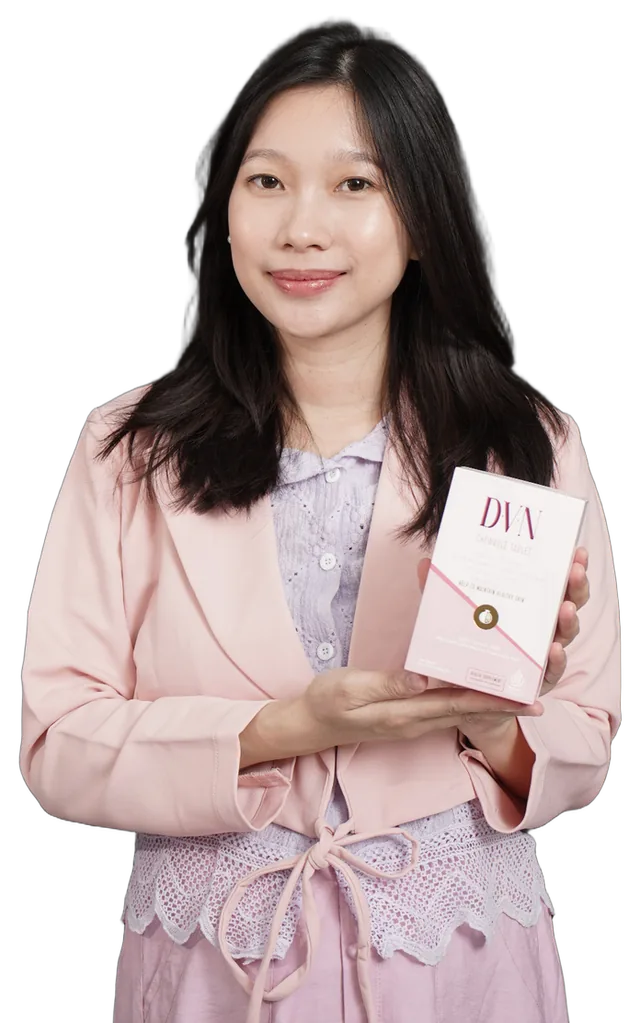
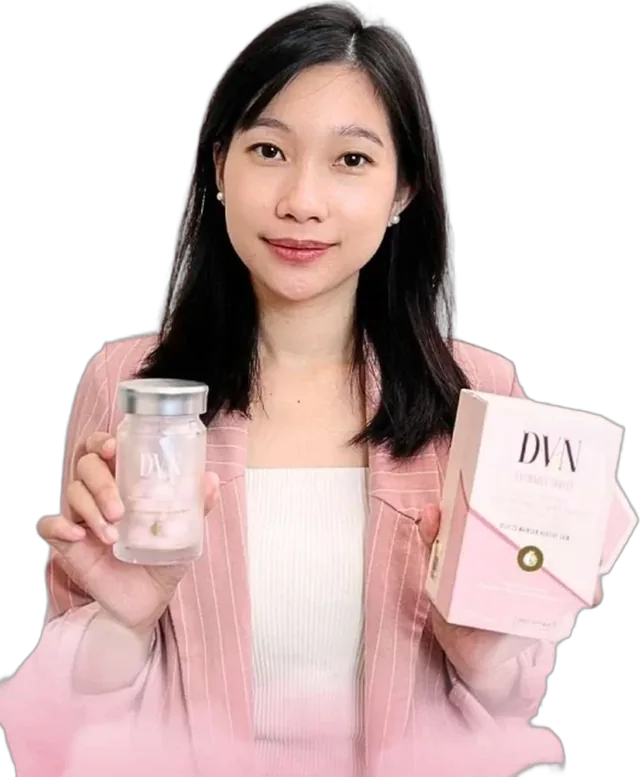
Add files via upload

diff --git a/index.html b/index.html
@@ -14,7 +14,7 @@
   <link rel="preload" as="image" href="assets/hero-silvi.webp" fetchpriority="high">
   <link rel="preconnect" href="https://fonts.googleapis.com">
   <link rel="preconnect" href="https://fonts.gstatic.com" crossorigin>
-  <link href="https://fonts.googleapis.com/css2?family=Bodoni+Moda:ital,opsz,wght@0,6..96,500;1,6..96,500&family=Plus+Jakarta+Sans:wght@400;500;600;700;800&display=swap" rel="stylesheet">
+  <link href="https://fonts.googleapis.com/css2?family=Fraunces:ital,opsz,wght@0,9..144,600;0,9..144,700;1,9..144,600&family=Plus+Jakarta+Sans:wght@400;500;600;700;800&display=swap" rel="stylesheet">
 
   <!-- TODO: Meta Pixel. Ganti PIXEL_ID lalu hapus tanda komentar.
   <script>
@@ -46,7 +46,7 @@
       --dark: #1F1F1F;
       --wa: #15784A;
       --wa-d: #0F6038;
-      --serif: "Bodoni Moda", Georgia, "Times New Roman", serif;
+      --serif: "Fraunces", Georgia, "Times New Roman", serif;
       --sans: "Plus Jakarta Sans", system-ui, -apple-system, "Segoe UI", sans-serif;
     }
 
@@ -54,7 +54,7 @@
     html { scroll-behavior: smooth; -webkit-text-size-adjust: 100%; }
     body { margin: 0; background: var(--ground); color: var(--ink); font-family: var(--sans); font-size: 16px; line-height: 1.55; -webkit-font-smoothing: antialiased; }
     img { max-width: 100%; display: block; }
-    h1, h2, h3 { font-family: var(--serif); font-weight: 500; letter-spacing: -.01em; margin: 0; }
+    h1, h2, h3 { font-family: var(--serif); font-weight: 600; letter-spacing: -.015em; margin: 0; font-optical-sizing: auto; }
     p { margin: 0; }
     em { font-style: italic; }
     a { color: var(--rose); }
@@ -99,17 +99,17 @@
     .spark.r { color: var(--rose); }
     .hero-grid { position: relative; z-index: 2; display: grid; }
     .hero-copy { padding-top: 24px; }
-    .hero h1 { font-family: var(--sans); font-weight: 800; font-size: clamp(31px, 8.4vw, 46px); line-height: 1.12; letter-spacing: -.025em; margin: 14px 0 12px; }
-    .hero h1 em { font-style: normal; color: var(--rose); background: linear-gradient(transparent 62%, rgba(255,255,255,.75) 62%, rgba(255,255,255,.75) 92%, transparent 92%); -webkit-box-decoration-break: clone; box-decoration-break: clone; padding: 0 2px; }
+    .hero h1 { font-weight: 700; font-size: clamp(32px, 8.6vw, 48px); line-height: 1.1; letter-spacing: -.02em; margin: 14px 0 12px; }
+    .hero h1 em { font-style: italic; font-weight: 600; color: var(--rose); background: linear-gradient(transparent 62%, rgba(255,255,255,.75) 62%, rgba(255,255,255,.75) 92%, transparent 92%); -webkit-box-decoration-break: clone; box-decoration-break: clone; padding: 0 2px; }
     .perks { display: flex; flex-wrap: wrap; gap: 8px; }
     .perk { display: inline-flex; align-items: center; gap: 8px; padding: 6px 12px 6px 6px; border-radius: 999px; background: #fff; color: var(--rose-d); font-size: 13px; font-weight: 700; box-shadow: 0 6px 16px -12px rgba(126,22,54,.7); }
     .perk i { width: 26px; height: 26px; border-radius: 50%; display: grid; place-items: center; background: var(--rose); color: #fff; }
     .perk svg { width: 15px; height: 15px; }
     .lead { font-size: 16px; color: #5A2638; }
     .lead strong { color: var(--ink); }
-    .photo { position: relative; width: min(342px, 100%); height: 480px; margin: 18px auto 0; display: flex; justify-content: center; align-items: flex-end; }
+    .photo { position: relative; width: min(350px, 100%); margin: 18px auto 0; display: flex; justify-content: center; align-items: flex-end; }
     .photo::before { content: ""; position: absolute; left: 50%; top: 36px; width: 300px; height: 300px; margin-left: -150px; border-radius: 50%; background: rgba(255,255,255,.5); border: 1.5px solid #fff; }
-    .photo img { position: relative; height: 480px; width: auto; max-width: none; -webkit-mask-image: linear-gradient(180deg, #000 80%, transparent); mask-image: linear-gradient(180deg, #000 80%, transparent); filter: drop-shadow(0 18px 24px rgba(126,22,54,.25)); }
+    .photo img { position: relative; width: 100%; height: auto; -webkit-mask-image: linear-gradient(180deg, #000 80%, transparent); mask-image: linear-gradient(180deg, #000 80%, transparent); filter: drop-shadow(0 18px 24px rgba(126,22,54,.25)); }
     .tag { position: absolute; left: 50%; bottom: 16px; transform: translateX(-50%); z-index: 3; display: flex; flex-direction: column; align-items: center; padding: 8px 18px; border-radius: 16px; background: rgba(255,255,255,.94); box-shadow: 0 12px 28px -14px rgba(0,0,0,.6); white-space: nowrap; }
     .tag b { display: inline-flex; align-items: center; gap: 6px; font-size: 15px; }
     .tag b svg { width: 16px; height: 16px; color: #fff; background: #2F80ED; border-radius: 50%; padding: 2px; }
@@ -284,8 +284,7 @@
       .wrap { padding: 0 40px; }
       .track { margin: 24px -40px 0; padding: 4px 40px 12px; }
       .h2 { max-width: 640px; }
-      .photo { width: 400px; height: 520px; }
-      .photo img { height: 520px; }
+      .photo { width: 420px; }
       .photo::before { width: 340px; height: 340px; margin-left: -170px; }
       .docs { max-width: 340px; }
       .sec .btn-wa { max-width: 420px; }
@@ -321,8 +320,7 @@
       .hero-cta .trust { justify-content: flex-start; }
       .hero-cta .btn-wa { align-self: flex-start; padding: 0 32px; }
       .hero-cta .note { text-align: left; }
-      .photo { grid-column: 2; grid-row: 1 / span 2; width: 460px; height: 600px; margin: 40px auto 0; }
-      .photo img { height: 600px; }
+      .photo { grid-column: 2; grid-row: 1 / span 2; width: 480px; margin: 40px auto 0; }
       .photo::before { width: 420px; height: 420px; margin-left: -210px; top: 40px; }
       .deco.c3 { top: 520px; }
 
@@ -409,11 +407,11 @@
         <li class="perk"><i><svg viewBox="0 0 24 24" fill="none" stroke="currentColor" stroke-width="2" stroke-linecap="round" stroke-linejoin="round" aria-hidden="true"><rect x="3" y="6" width="18" height="12" rx="2"/><circle cx="12" cy="12" r="2.5"/><path d="M6.5 9.5v.01M17.5 14.5v.01"/></svg></i>Bisa COD</li>
       </ul>
       <h1>Skincare sudah rutin, tapi kulit masih terasa <em>kering &amp; kurang kenyal?</em></h1>
-      <p class="lead">Bisa jadi kulitmu juga butuh dukungan <strong>dari dalam</strong> supaya tetap sehat, lembap &amp; kenyal.</p>
+      <p class="lead">Kulitmu juga butuh nutrisi <strong>dari dalam</strong> supaya tetap sehat, lembap &amp; kenyal.</p>
     </div>
 
     <div class="photo">
-      <img src="assets/hero-silvi.webp" alt="Memegang kemasan DVN Chewable Tablet" width="640" height="1023" fetchpriority="high" decoding="async">
+      <img src="assets/hero-silvi.webp" alt="Silvia memegang botol dan kemasan DVN Chewable Tablet" width="640" height="777" fetchpriority="high" decoding="async">
       <p class="tag"><b>Silvia · I1607 <svg viewBox="0 0 24 24" fill="none" stroke="currentColor" stroke-width="3.5" stroke-linecap="round" stroke-linejoin="round" role="img" aria-label="Terverifikasi"><path d="M6 12.5l4 4L18 8"/></svg></b><i>Bachelor of Science &amp; beauty enthusiast</i></p>
     </div>
 
@@ -470,8 +468,8 @@
         <p id="p-msg" style="font-size: 15px; font-weight: 600">Wajar dialami, apalagi dengan aktivitas padat.</p>
       </div>
       <div class="rv">
-        <p class="insight">“Ternyata, merawat dari luar saja belum cukup.”</p>
-        <p class="sub" style="margin-top: 10px">Skincare bekerja di permukaan. Padahal kondisi kulit juga dipengaruhi apa yang terjadi di dalam tubuh: nutrisi, istirahat, stres, dan paparan sinar matahari.</p>
+        <p class="insight">Skincare bekerja di permukaan kulit.</p>
+        <p class="sub" style="margin-top: 10px">Nutrisi, jam tidur, stres, dan sinar matahari juga memengaruhi kondisi kulitmu dari dalam.</p>
         <a class="link-down" href="#solusi">Lihat solusinya<svg viewBox="0 0 24 24" fill="none" stroke="currentColor" stroke-width="2" stroke-linecap="round" stroke-linejoin="round" aria-hidden="true"><path d="M12 5v14M6 13l6 6 6-6"/></svg></a>
       </div>
     </div>
@@ -485,7 +483,7 @@
       <div class="rv">
         <p class="kicker"><span>02</span>Solusi</p>
         <h2 class="h2">Rawat dari luar, <em>lengkapi dari dalam</em></h2>
-        <p class="sub" style="color: var(--muted-2)">DVN Chewable Tablet adalah suplemen kunyah yang dirancang untuk membantu menjaga kesehatan kulit dari dalam. Skincare tetap jalan, kulit juga dapat dukungan nutrisi.</p>
+        <p class="sub" style="color: var(--muted-2)">DVN Chewable Tablet adalah suplemen kunyah untuk membantu memelihara kesehatan kulit dari dalam. Kamu tetap pakai skincare, kulitmu dapat tambahan nutrisi.</p>
       </div>
       <div class="eq rv">
         <div class="eqc">
@@ -500,7 +498,7 @@
         <span class="eqop" aria-hidden="true">=</span>
         <div class="eqc hl">
           <span class="eqi"><svg viewBox="0 0 24 24" fill="none" stroke="currentColor" stroke-width="1.8" stroke-linecap="round" stroke-linejoin="round" aria-hidden="true"><path d="M12 3l1.9 4.6L18.5 9l-4.6 1.9L12 15.5l-1.9-4.6L5.5 9l4.6-1.4z"/><path d="M18 15l.8 2.2L21 18l-2.2.8L18 21l-.8-2.2L15 18l2.2-.8z"/></svg></span>
-          <span><strong>Rutinitas yang lebih lengkap</strong><small>Bantu jaga kulit tetap sehat, lembap &amp; kenyal</small></span>
+          <span><strong>Kamu merawat kulit dari dua sisi</strong><small>Bantu jaga kulit tetap sehat, lembap &amp; kenyal</small></span>
         </div>
       </div>
     </div>
@@ -520,11 +518,11 @@
         </div>
         <div class="feat">
           <span class="fi"><svg viewBox="0 0 24 24" fill="none" stroke="currentColor" stroke-width="1.8" stroke-linecap="round" stroke-linejoin="round" aria-hidden="true"><circle cx="12" cy="12" r="8.5"/><path d="M12 7.5V12l3 2"/></svg></span>
-          <span><strong>Praktis untuk rutinitas padat</strong><small>Tablet kunyah, mudah dibawa ke mana saja.</small></span>
+          <span><strong>Botol kecil, muat di tas</strong><small>Bawa ke kantor atau saat bepergian.</small></span>
         </div>
         <div class="feat">
           <span class="fi"><svg viewBox="0 0 24 24" fill="none" stroke="currentColor" stroke-width="1.8" stroke-linecap="round" stroke-linejoin="round" aria-hidden="true"><path d="M12 3l7 3v6c0 4.5-3 7.5-7 9-4-1.5-7-4.5-7-9V6z"/><path d="M9 12l2 2 4-4"/></svg></span>
-          <span><strong>Terdaftar BPOM &amp; bersertifikat Halal</strong><small>Legalitas jelas, aman untuk rutinitas harian.</small></span>
+          <span><strong>Terdaftar BPOM &amp; bersertifikat Halal</strong><small>Nomor registrasi dan sertifikatnya bisa kamu cek.</small></span>
         </div>
         <div class="feat">
           <span class="fi"><svg viewBox="0 0 24 24" fill="none" stroke="currentColor" stroke-width="1.8" stroke-linecap="round" stroke-linejoin="round" aria-hidden="true"><path d="M20.5 11.5a8.5 8.5 0 0 1-12.6 7.4L3.5 20l1.2-4.3A8.5 8.5 0 1 1 20.5 11.5z"/><path d="M8.5 11.5h.01M12 11.5h.01M15.5 11.5h.01"/></svg></span>
@@ -535,7 +533,7 @@
   </div>
   <div class="wrap">
     <div class="sec-foot rv">
-      <p class="nowhite">Suplemen ini tidak mengandung zat pemutih atau hasil instan</p>
+      <p class="nowhite">Tanpa zat pemutih &amp; tidak menjanjikan hasil instan</p>
       <img class="badges" src="assets/badges.webp" alt="Logo Halal, BPOM, ISO 9001 dan sertifikasi mutu lainnya" width="408" height="62" loading="lazy" decoding="async">
       <a class="btn-wa" data-wa="solusi" href="#order"><svg viewBox="0 0 24 24" fill="none" stroke="currentColor" stroke-width="2" stroke-linecap="round" stroke-linejoin="round" aria-hidden="true"><path d="M20.5 11.5a8.5 8.5 0 0 1-12.6 7.4L3.5 20l1.2-4.3A8.5 8.5 0 1 1 20.5 11.5z"/></svg>Tanya Ce Silvi soal DVN</a>
     </div>
@@ -594,7 +592,7 @@
     <div class="rv">
       <p class="kicker"><span>04</span>Testimoni</p>
       <h2 class="h2">Paket DVN sudah <em>sampai di tangan mereka</em></h2>
-      <p class="sub" style="color: var(--muted-2)">Konfirmasi langsung dari pelanggan Ce Silvi setelah paketnya diterima.</p>
+      <p class="sub" style="color: var(--muted-2)">Pelanggan Ce Silvi mengabari langsung saat paketnya sampai.</p>
       <div style="display: flex; flex-wrap: wrap; gap: 8px; margin-top: 16px">
         <span class="chipx"><svg viewBox="0 0 24 24" fill="none" stroke="currentColor" stroke-width="1.8" stroke-linecap="round" stroke-linejoin="round" aria-hidden="true"><path d="M3 7h11v9H3z"/><path d="M14 10h4l3 3v3h-7"/><circle cx="7" cy="17.5" r="1.8"/><circle cx="17" cy="17.5" r="1.8"/></svg>Gratis ongkir</span>
         <span class="chipx"><svg viewBox="0 0 24 24" fill="none" stroke="currentColor" stroke-width="1.8" stroke-linecap="round" stroke-linejoin="round" aria-hidden="true"><rect x="3" y="6" width="18" height="12" rx="2"/><circle cx="12" cy="12" r="2.5"/></svg>Bisa COD</span>
@@ -632,7 +630,7 @@
     </div>
     <div class="dots" id="dots" aria-hidden="true"><span class="d on"></span><span class="d"></span><span class="d"></span></div>
     <div class="sec-foot">
-    <p class="small">Screenshot asli percakapan pelanggan dengan CS Ce Silvi. Foto profil pelanggan disamarkan untuk menjaga privasi.</p>
+    <p class="small">Screenshot asli percakapan pelanggan dengan CS Ce Silvi. Kami samarkan foto profil pelanggan untuk menjaga privasi.</p>
     <a class="btn-wa" data-wa="testimoni" href="#order"><svg viewBox="0 0 24 24" fill="none" stroke="currentColor" stroke-width="2" stroke-linecap="round" stroke-linejoin="round" aria-hidden="true"><path d="M20.5 11.5a8.5 8.5 0 0 1-12.6 7.4L3.5 20l1.2-4.3A8.5 8.5 0 1 1 20.5 11.5z"/></svg>Order sekarang, kami kirim</a>
     </div>
   </div>
@@ -644,8 +642,8 @@
   <div class="wrap">
     <div class="rv">
       <p class="kicker"><span>05</span>Sertifikat</p>
-      <h2 class="h2">Asli, terdaftar, <em>dan terverifikasi</em></h2>
-      <p class="sub">Legalitas jelas, jadi kamu tenang mengonsumsinya setiap hari.</p>
+      <h2 class="h2">Terdaftar resmi, <em>bisa kamu cek sendiri</em></h2>
+      <p class="sub">Cocokkan nomor registrasi dan kode QR-nya sebelum membeli.</p>
     </div>
     <div class="split" style="margin-top: 12px">
       <div class="rv">
@@ -667,14 +665,14 @@
         </div>
         <div class="warn">
           <svg viewBox="0 0 24 24" fill="none" stroke="currentColor" stroke-width="1.9" stroke-linecap="round" stroke-linejoin="round" aria-hidden="true"><path d="M12 4l9 16H3z"/><path d="M12 10v4.5M12 17.5v.01"/></svg>
-          <p><strong>Hati-hati produk palsu.</strong> DVN tidak boleh diperjualbelikan di marketplace (Shopee, Tokopedia, Lazada, Bukalapak). Harga &amp; promo ditentukan pusat, jadi harga yang jauh lebih murah patut diwaspadai.</p>
+          <p><strong>Hati-hati produk palsu.</strong> DVN tidak boleh diperjualbelikan di marketplace (Shopee, Tokopedia, Lazada, Bukalapak). Pusat yang menentukan harga &amp; promo, jadi waspadai harga yang jauh lebih murah.</p>
         </div>
         <div class="verify">
           <img src="assets/verified.webp" alt="Tampilan verifikasi dealer DVN: VERIFIED" width="280" height="312" loading="lazy" decoding="async">
           <div>
             <p style="font-size: 12px; font-weight: 700; color: var(--wa); letter-spacing: .06em">DEALER TERVERIFIKASI</p>
             <p style="font-size: 15px; font-weight: 700; margin-top: 4px">Ce Silvi, dealer resmi D.V.N</p>
-            <p style="font-size: 13px; color: var(--muted-2); margin-top: 4px">ID dealer <strong>I1607</strong>. Statusnya bisa dicek di website resmi.</p>
+            <p style="font-size: 13px; color: var(--muted-2); margin-top: 4px">ID dealer <strong>I1607</strong>. Kamu bisa cek statusnya di website resmi.</p>
           </div>
         </div>
       </div>
@@ -688,7 +686,7 @@
     <div class="glow"><img src="assets/bottle.webp" alt="Botol DVN Chewable Tablet" width="480" height="953" loading="lazy" decoding="async"></div>
     <div class="cta-copy">
     <h2 class="h2">Mulai rawat kulitmu dari dalam, <em>hari ini</em></h2>
-    <p style="font-size: 15px; color: #D9C9CE; margin-bottom: 24px">Bantu jaga kulit tetap sehat, lembap &amp; kenyal dari dalam. Ceritakan kondisi kulitmu ke Ce Silvi, konsultasi gratis tanpa kewajiban membeli.</p>
+    <p style="font-size: 15px; color: #D9C9CE; margin-bottom: 24px">Ceritakan kondisi kulitmu ke Ce Silvi. Konsultasinya gratis dan kamu tidak wajib membeli.</p>
     <a class="btn-wa" data-wa="final" href="#order"><svg viewBox="0 0 24 24" fill="none" stroke="currentColor" stroke-width="2" stroke-linecap="round" stroke-linejoin="round" aria-hidden="true"><path d="M20.5 11.5a8.5 8.5 0 0 1-12.6 7.4L3.5 20l1.2-4.3A8.5 8.5 0 1 1 20.5 11.5z"/></svg>Konsultasi Gratis via WhatsApp</a>
     <div class="trust" style="margin-top: 18px">
       <span class="tchip">Gratis ongkir</span><span class="tchip">Bisa COD</span><span class="tchip">Produk asli</span><span class="tchip">Tanpa pemutih</span>
@@ -710,8 +708,8 @@
 <script>
 (function () {
   // ===== KONFIGURASI =====
-  // TODO: ganti dengan nomor WhatsApp Ce Silvi (format internasional, tanpa + / spasi), contoh: 6281234567890
-  var WA_NUMBER = '62XXXXXXXXXX';
+  // Nomor WhatsApp Ce Silvi (format internasional, tanpa + / spasi)
+  var WA_NUMBER = '6281283335822'; // +62 812-8333-5822
   // Pesan otomatis per posisi tombol, supaya terlihat tombol mana yang menghasilkan chat.
   var WA_MESSAGES = {
     hero: 'Halo Ce Silvi, saya mau konsultasi gratis soal kulit saya.',
@@ -753,12 +751,12 @@
 
   // ===== 03 Komposisi: orbit interaktif =====
   var INGREDIENTS = [
-    { short: 'Kolagen Ikan', name: 'Kolagen Ikan Terhidrolisis', label: 'Hydrolyzed fish collagen', group: 'hid', img: 'assets/ing-kol.webp', bg: '#FBE3EA', fg: '#B3264F', desc: 'Kolagen adalah protein struktural utama penyusun kulit. Bentuk terhidrolisis dipecah menjadi peptida berukuran kecil.', rel: 'kulit terasa kurang kenyal' },
+    { short: 'Kolagen Ikan', name: 'Kolagen Ikan Terhidrolisis', label: 'Hydrolyzed fish collagen', group: 'hid', img: 'assets/ing-kol.webp', bg: '#FBE3EA', fg: '#B3264F', desc: 'Kolagen adalah protein struktural utama penyusun kulit. Versi terhidrolisis berupa peptida berukuran kecil.', rel: 'kulit terasa kurang kenyal' },
     { short: 'Tripeptida', name: 'Kolagen Tripeptida', label: 'Collagen tripeptide', group: 'hid', img: 'assets/ing-tri.webp', bg: '#F7E1EF', fg: '#922A6C', desc: 'Fragmen kolagen yang tersusun dari tiga asam amino, bentuk kolagen dengan ukuran paling ringkas.', rel: 'mulai khawatir soal usia' },
-    { short: 'Hialuronat', name: 'Natrium Hialuronat', label: 'Sodium hyaluronate', group: 'hid', img: 'assets/ing-ha.webp', bg: '#E1EDF8', fg: '#2B5C86', desc: 'Bentuk garam dari asam hialuronat, zat yang dikenal karena kemampuannya mengikat air.', rel: 'kulit cepat terasa kering' },
-    { short: 'Glutathione', name: 'L-Glutathione Tereduksi', label: 'Reduced L-glutathione', group: 'aox', img: 'assets/ing-glu.webp', bg: '#ECE5F7', fg: '#593C93', desc: 'Antioksidan yang secara alami juga diproduksi oleh tubuh.', rel: 'kulit tampak lelah & kurang sehat' },
+    { short: 'Hialuronat', name: 'Natrium Hialuronat', label: 'Sodium hyaluronate', group: 'hid', img: 'assets/ing-ha.webp', bg: '#E1EDF8', fg: '#2B5C86', desc: 'Bentuk garam dari asam hialuronat, zat yang mampu mengikat air.', rel: 'kulit cepat terasa kering' },
+    { short: 'Glutathione', name: 'L-Glutathione Tereduksi', label: 'Reduced L-glutathione', group: 'aox', img: 'assets/ing-glu.webp', bg: '#ECE5F7', fg: '#593C93', desc: 'Antioksidan yang juga diproduksi tubuhmu sendiri.', rel: 'kulit tampak lelah & kurang sehat' },
     { short: 'Vitamin C', name: 'Vitamin C', label: 'Vitamin C', group: 'aox', img: 'assets/ing-vc.webp', bg: '#FDEAD6', fg: '#9A4E15', desc: 'Antioksidan yang juga berperan dalam proses pembentukan kolagen.', rel: 'kulit tampak lelah & kurang sehat' },
-    { short: 'Delima', name: 'Ekstrak Buah Delima', label: 'Pomegranate extract', group: 'aox', img: 'assets/ing-del.webp', bg: '#FBE0DE', fg: '#A8241D', desc: 'Ekstrak buah delima, sumber alami polifenol dari buah.', rel: 'kulit tampak lelah & kurang sehat' },
+    { short: 'Delima', name: 'Ekstrak Buah Delima', label: 'Pomegranate extract', group: 'aox', img: 'assets/ing-del.webp', bg: '#FBE0DE', fg: '#A8241D', desc: 'Ekstrak buah delima, sumber polifenol.', rel: 'kulit tampak lelah & kurang sehat' },
     { short: 'Knotweed', name: 'Ekstrak Akar Knotweed Jepang', label: 'Polygonum cuspidatum radix extract', group: 'aox', img: 'assets/ing-kn.webp', bg: '#E3F0E5', fg: '#2D683B', desc: 'Sumber alami resveratrol, senyawa antioksidan dari tumbuhan.', rel: 'mulai khawatir soal usia' }
   ];
   var GROUPS = { hid: 'Kelembapan & kekenyalan', aox: 'Perlindungan antioksidan' };

diff --git a/README.md b/README.md
@@ -23,8 +23,8 @@ Data 7 bahan (nama, deskripsi, warna, gambar) ada di array `INGREDIENTS` di `<sc
 ## Checklist sebelum live
 
 **Konfigurasi**
-- [ ] `WA_NUMBER` di bagian `<script>` paling bawah: nomor WA Ce Silvi (format `628...`)
-- [ ] Meta Pixel di `<head>`: ganti `PIXEL_ID` lalu aktifkan. Setiap klik tombol WA mengirim event `Contact` dengan `content_name` = posisi tombol (`wa_header`, `wa_hero`, `wa_solusi`, `wa_testimoni`, `wa_final`, `wa_float`)
+- [x] `WA_NUMBER` sudah diisi: +62 812-8333-5822 (`6281283335822`) untuk semua tombol WhatsApp
+- [ ] Meta Pixel di `<head>`: ganti `PIXEL_ID` (ambil dari LP lama / Events Manager) lalu aktifkan. Setiap klik tombol WA mengirim event `Contact` dengan `content_name` = posisi tombol (`wa_header`, `wa_hero`, `wa_solusi`, `wa_testimoni`, `wa_final`, `wa_float`)
 - [ ] `og:image` memakai path relatif; ganti ke URL absolut setelah domain final diketahui
 
 **Konten & kepatuhan**
@@ -33,12 +33,13 @@ Data 7 bahan (nama, deskripsi, warna, gambar) ada di array `INGREDIENTS` di `<sc
 - [ ] Izin pelanggan untuk 3 screenshot testimoni (foto profil sudah diblur)
 - [ ] Konfirmasi Gratis ongkir & COD masih berlaku
 - [ ] Hindari kata: kusam, kasar, glowing, cerah. Pakai: sehat, lembap, kenyal
+- [x] Copy sudah dievaluasi dengan checklist stop-slop (tanpa kalimat pasif tanpa pelaku, tanpa pull-quote, tanpa em dash)
 
 **Gambar** (`assets/`, semua WebP, total ±330 KB; selain foto hero semuanya lazy-load)
 
 | File | Isi | Catatan |
 |---|---|---|
-| `hero-silvi.webp` | Ce Silvi memegang produk, background sudah dihapus | |
+| `hero-silvi.webp` | Silvia memegang botol & kemasan DVN (dari key visual LP lama), background dihapus | |
 | `bottle.webp`, `tablets.webp` | Foto produk transparan | |
 | `ing-*.webp` | Ikon 7 bahan (dari infografis 7 Kandungan) | `ing-vc.webp` dibuat ulang, belum ada ikon resmi Vitamin C |
 | `testi-1.webp` … `testi-3.webp` | Screenshot chat paket diterima | Foto profil diblur |
